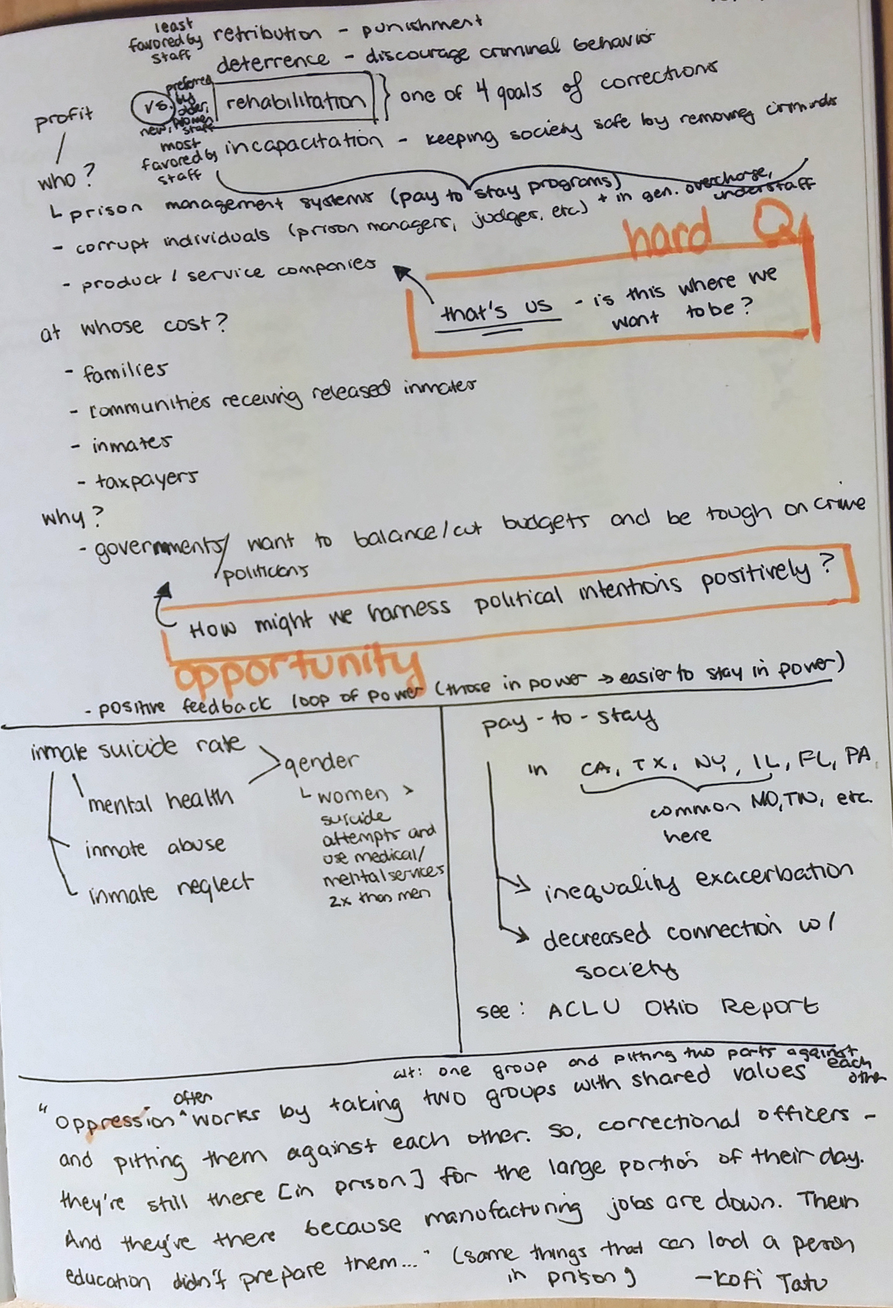
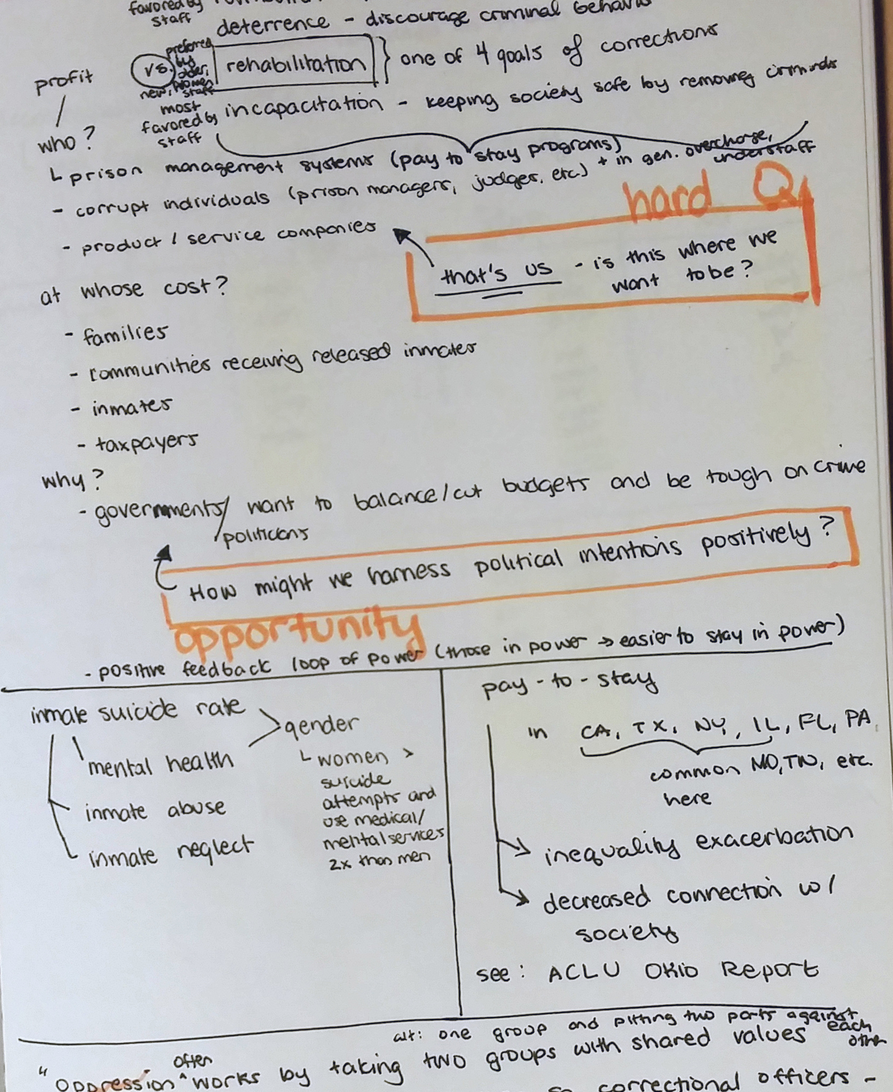
edit ipd notebook photo for formatting

diff --git a/prisonwellness.html b/prisonwellness.html
@@ -82,7 +82,7 @@ License URL: http://creativecommons.org/licenses/by/3.0/
 								<img src="images/portfolio/IPD_EcosystemMap.jpg" alt="">
 							</li>
 							<li>
-							  <img src="images/portfolio/IPD_Notebook.jpg" alt="">
+							  <img src="images/portfolio/IPD_Notebook_cropped.jpg" alt="">
 							</li>
 						  </ul>
 					  </div>
